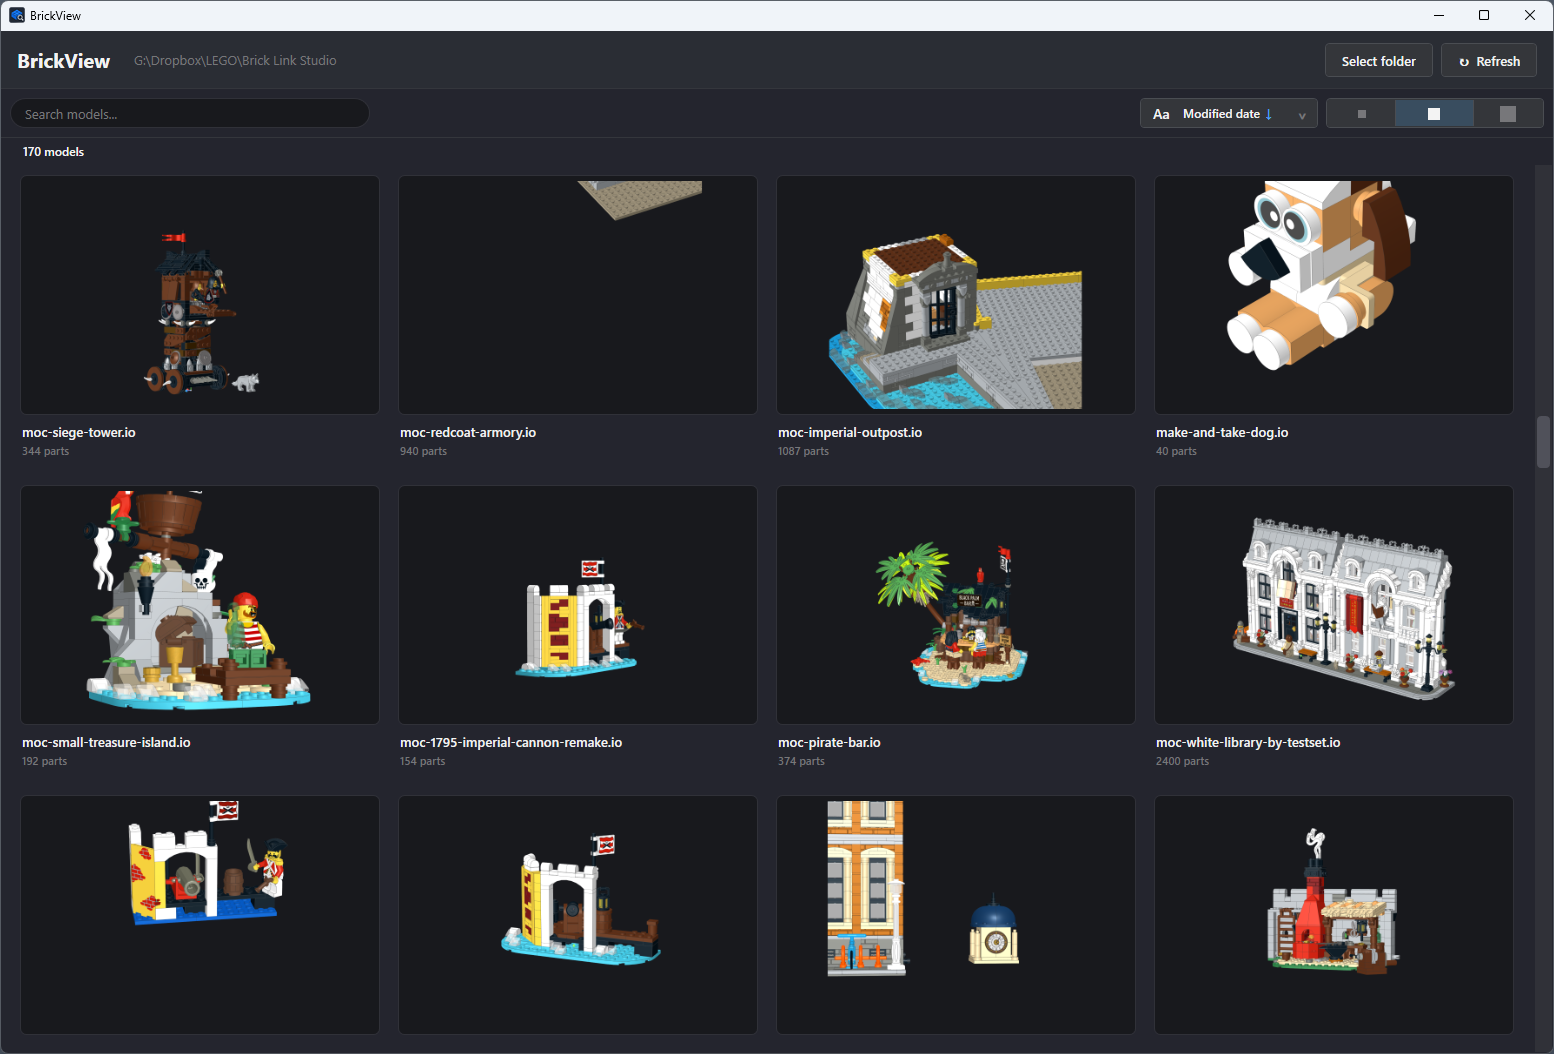
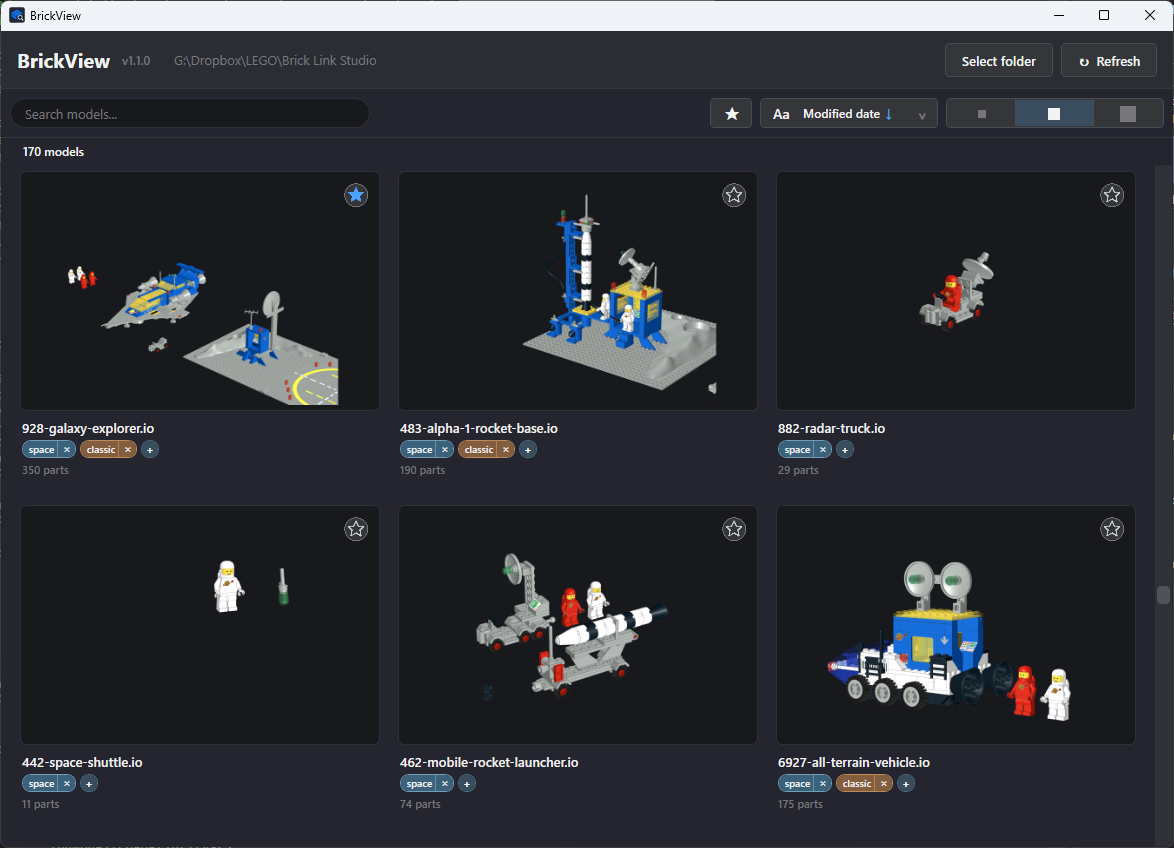
Release BrickView 1.1.0

diff --git a/README.md b/README.md
@@ -16,6 +16,8 @@ BrickView lets you browse your BrickLink Studio model library visually using the
 - Sort by file name, created date or modified date
 - Automatic folder monitoring and refresh
 - Persistent view, sorting and folder settings
+- Tags for organizing models
+- Favorites for marking models you want to find quickly
 - Studio-inspired dark interface
 - Part counts from Studio metadata
 - Context menu actions:
@@ -24,15 +26,88 @@ BrickView lets you browse your BrickLink Studio model library visually using the
   - Copy file path
   - Copy file name
 
+## What's New in 1.1
+
+BrickView 1.1 adds several features that make it easier to organize and browse larger model libraries.
+
+### Smart Search
+
+Find models quickly while typing.
+
+- Live filtering
+- Case-insensitive search
+- Wildcard `*` support
+- Clear search with `Escape`
+- Works together with folder monitoring and refresh
+
+### Tags
+
+Organize your models using custom tags.
+
+- Add tags to models
+- Remove tags from models
+- Reuse existing tags
+- Persistent tag storage
+- Tags are independent from Favorites
+
+### Favorites
+
+Mark models as Favorites for quick access.
+
+- Toggle Favorite status
+- Persistent Favorites
+- Easily identify models you want to keep track of
+
+### Advanced Sorting
+
+Sort your model library by:
+
+- File name
+- Created date
+- Modified date
+
+Each sort field supports ascending and descending order.
+
+### Thumbnail Sizes
+
+Choose between:
+
+- Small
+- Medium
+- Large
+
+Thumbnails are decoded at the appropriate resolution for the selected size.
+
+### Automatic Folder Monitoring
+
+BrickView automatically detects changes to the selected folder, including:
+
+- New `.io` files
+- Removed `.io` files
+- Modified `.io` files
+- Renamed `.io` files
+
+### Performance Improvements
+
+Version 1.1 improves the responsiveness of the application through:
+
+- Asynchronous folder loading
+- Debounced folder refresh
+- Cancellation of outdated refresh operations
+- Prioritized thumbnail loading
+- Background thumbnail workers
+- Prevention of duplicate active thumbnail loads
+- Improved handling of large model collections
+
 ## Download
 
 ### Windows x64
 
 Download the latest release:
 
-**[BrickView 1.0.0](https://github.com/devindazzle/BrickView/releases/latest)**
+**[BrickView 1.1](https://github.com/devindazzle/BrickView/releases/latest)**
 
-Download the `BrickView-1.0.0-win-x64.zip` file, extract it, and run `BrickView.exe`.
+Download the `BrickView-1.1.0-win-x64.zip` file, extract it, and run `BrickView.exe`.
 
 BrickView is distributed as a self-contained Windows x64 application, so no separate .NET installation is required.
 
@@ -46,7 +121,7 @@ BrickView is distributed as a self-contained Windows x64 application, so no sepa
 1. Start BrickView.
 2. Select the folder containing your BrickLink Studio `.io` files.
 3. Browse your models visually.
-4. Use search, sorting and the thumbnail size selector to find what you need.
+4. Use search, tags, Favorites, sorting and the thumbnail size selector to find what you need.
 5. Double-click a thumbnail to open the `.io` file using its Windows file association.
 
 ## License
